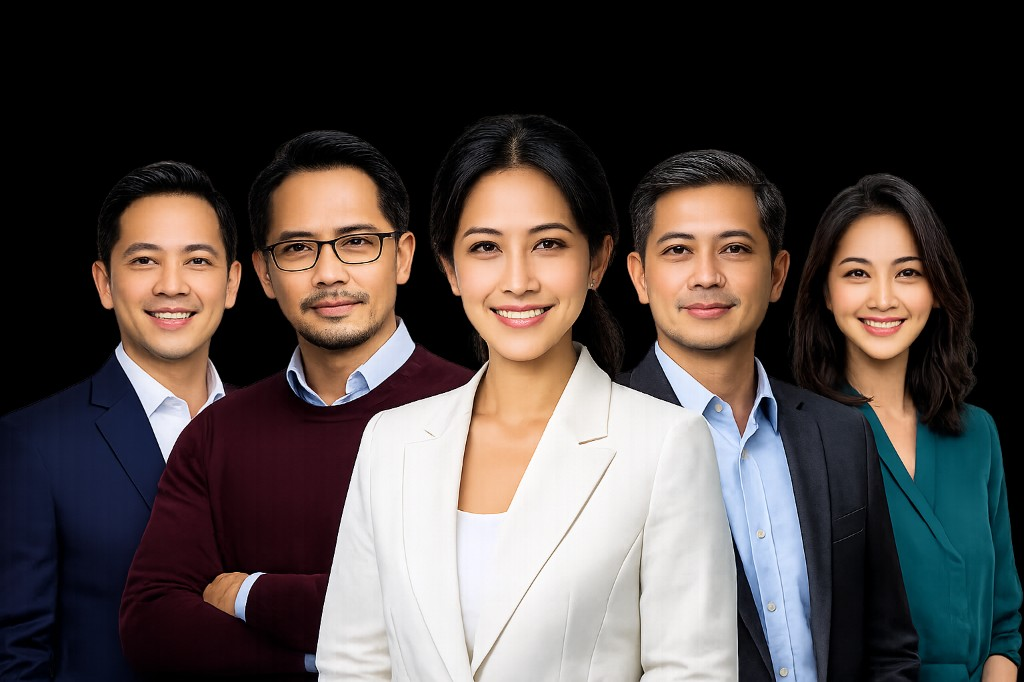
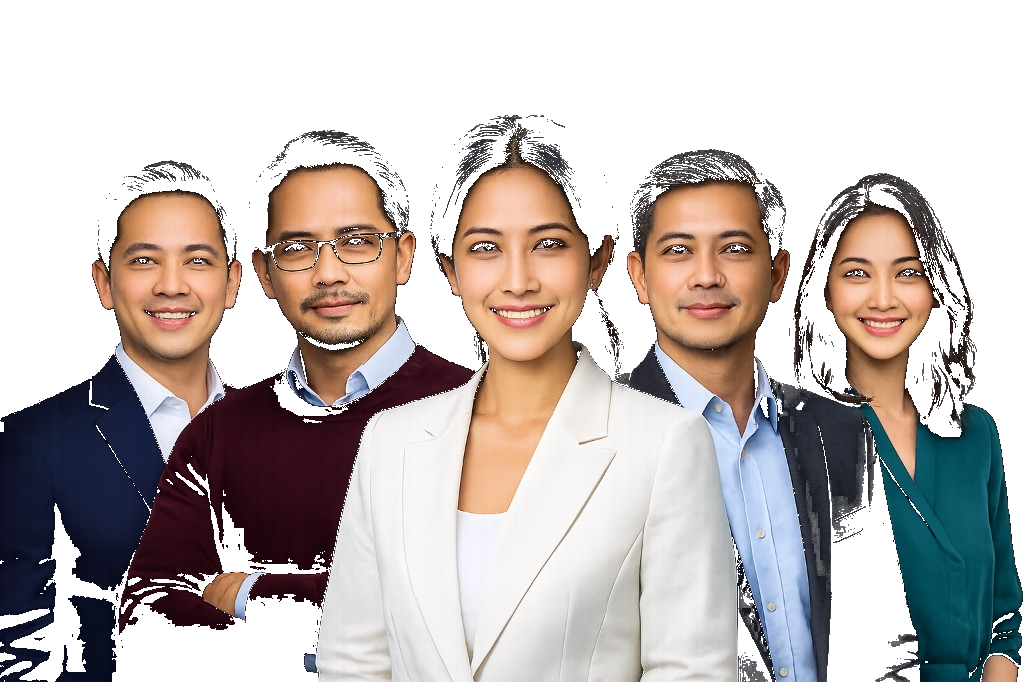
Merge trust and mentor sections into one unified block.
Combine verification messaging, group photo, aggregate stats, and a single catalog CTA so the homepage no longer repeats the same trust signals twice.

diff --git a/src/components/mentor-landing-section.tsx b/src/components/mentor-landing-section.tsx
@@ -1,33 +1,73 @@
+"use client";
+
 import Link from "next/link";
 import Image from "next/image";
-import { ArrowRight, ShieldCheck } from "lucide-react";
+import { ArrowRight, Check, ShieldCheck, Star, Users2 } from "lucide-react";
 
-import type { Mentor } from "@/lib/types";
-import { cn } from "@/lib/utils";
+import { Reveal, Stagger, StaggerItem } from "@/components/motion/reveal";
+import { Button } from "@/components/ui/button";
+import type { Course, Mentor } from "@/lib/types";
+import { cn, formatRating, hasRating } from "@/lib/utils";
 
 interface MentorLandingSectionProps {
   mentors: Mentor[];
+  courses: Course[];
   className?: string;
 }
 
-function formatCompactCount(value: number): string {
-  if (value >= 1_000_000) {
-    return `${(value / 1_000_000).toFixed(1).replace(/\.0$/, "").replace(".", ",")}jt`;
-  }
-  if (value >= 1_000) {
-    return `${(value / 1_000).toFixed(1).replace(/\.0$/, "").replace(".", ",")}rb`;
-  }
-  return String(value);
+const verificationSteps = [
+  "Kredensial dan lisensi diperiksa",
+  "Kurikulum ditinjau tim",
+  "Kepatuhan dicek sebelum tayang",
+] as const;
+
+function average(values: number[]): number {
+  if (values.length === 0) return 0;
+  return values.reduce((sum, v) => sum + v, 0) / values.length;
 }
 
-export function MentorLandingSection({ mentors, className }: MentorLandingSectionProps) {
+export function MentorLandingSection({ mentors, courses, className }: MentorLandingSectionProps) {
   if (mentors.length === 0) return null;
 
-  const studentsTotal = mentors.reduce((sum, m) => sum + m.studentsCount, 0);
+  const totalStudents = courses.reduce((sum, c) => sum + c.studentsCount, 0);
   const ojkCount = mentors.filter((m) => m.licenseLabel?.includes("OJK")).length;
+  const ratedCourses = courses.filter((c) => hasRating(c.rating));
+  const avgRating = average(ratedCourses.map((c) => c.rating));
+
+  const stats = [
+    {
+      icon: Users2,
+      value: mentors.length.toLocaleString("id-ID"),
+      label: "Mentor di katalog",
+    },
+    {
+      icon: Users2,
+      value: totalStudents.toLocaleString("id-ID"),
+      label: "Siswa terdaftar",
+    },
+    {
+      icon: ShieldCheck,
+      value: ojkCount.toLocaleString("id-ID"),
+      label: "Terdaftar OJK",
+    },
+    {
+      icon: Star,
+      value: avgRating > 0 ? formatRating(avgRating) : "—",
+      label: "Rating rata-rata kelas",
+    },
+  ];
 
   return (
     <div className={cn("mentor-landing-section", className)}>
+      <div className="mentor-landing-header">
+        <p className="mentor-landing-eyebrow">Mentor Terverifikasi</p>
+        <h2 className="section-title sm:text-3xl">Mentor dicek dulu, baru kelas tayang</h2>
+        <p className="mentor-landing-copy">
+          Kami verifikasi kredensial, kurikulum, dan kepatuhan — lisensi WPPE-OJK untuk saham,
+          sertifikasi Bappebti untuk kripto — sebelum mentor tampil di katalog.
+        </p>
+      </div>
+
       <div className="mentor-landing-hero" aria-label="Mentor terverifikasi">
         <Image
           src="/mentors/mentor-landing-group.png"
@@ -38,25 +78,50 @@ export function MentorLandingSection({ mentors, className }: MentorLandingSectio
           className="mentor-landing-photo"
         />
         <div className="mentor-landing-fade" aria-hidden />
-
-        <div className="mentor-landing-header">
-          <p className="mentor-landing-eyebrow">Mentor Terverifikasi</p>
-          <h2 className="mentor-landing-title">Sosok di balik kelas yang kamu ikuti</h2>
-          <p className="mentor-landing-copy">
-            Setiap mentor melewati verifikasi kredensial — lisensi WPPE-OJK untuk saham,
-            sertifikasi Bappebti untuk kripto — sebelum kelasnya tayang di katalog.
-          </p>
-          <p className="mentor-landing-stats">
-            <ShieldCheck className="size-3.5 text-accent" strokeWidth={2} aria-hidden />
-            {mentors.length} mentor · {formatCompactCount(studentsTotal)} murid ·{" "}
-            {ojkCount} terdaftar OJK
-          </p>
-          <Link href="/katalog?view=instruktur" className="mentor-landing-cta">
-            Buka katalog mentor
-            <ArrowRight className="size-4" />
-          </Link>
-        </div>
       </div>
+
+      <Stagger className="mt-6 grid grid-cols-2 gap-3 sm:mt-8 sm:gap-4 md:grid-cols-4">
+        {stats.map((stat) => {
+          const Icon = stat.icon;
+          return (
+            <StaggerItem key={stat.label}>
+              <div className="narrative-stat-tile surface-card h-full rounded-xl p-4 sm:p-5">
+                <Icon className="size-4 text-accent" aria-hidden />
+                <p className="narrative-stat-value stat-value mt-2 text-xl sm:text-3xl">{stat.value}</p>
+                <p className="stat-label">{stat.label}</p>
+              </div>
+            </StaggerItem>
+          );
+        })}
+      </Stagger>
+
+      <Reveal className="mt-6 sm:mt-8">
+        <div className="surface-card rounded-xl bg-card/60 p-4 sm:p-6">
+          <Stagger className="grid gap-2.5 sm:grid-cols-3" delay={0.05}>
+            {verificationSteps.map((step) => (
+              <StaggerItem key={step}>
+                <div className="flex h-full items-center gap-3 rounded-lg border border-border/50 bg-surface/30 px-3 py-2.5">
+                  <span className="flex size-5 shrink-0 items-center justify-center rounded-full bg-accent/15">
+                    <Check className="size-3 text-accent" strokeWidth={2.5} />
+                  </span>
+                  <span className="text-sm text-muted-foreground">{step}</span>
+                </div>
+              </StaggerItem>
+            ))}
+          </Stagger>
+        </div>
+      </Reveal>
+
+      <Reveal className="mt-6 flex justify-center sm:mt-8">
+        <Button
+          size="lg"
+          className="btn-primary h-12 rounded-full px-8"
+          render={<Link href="/katalog?view=instruktur" />}
+        >
+          Buka katalog mentor
+          <ArrowRight className="size-4" />
+        </Button>
+      </Reveal>
     </div>
   );
 }

diff --git a/src/app/globals.css b/src/app/globals.css
@@ -525,53 +525,18 @@
     background-color: var(--accent);
   }
 
-  /* Mentor landing — group photo hero with bottom fade into page background. */
+  /* Mentor landing — copy stacked above group photo with bottom fade into page background. */
   .mentor-landing-section {
-    position: relative;
-  }
-
-  .mentor-landing-hero {
-    position: relative;
-    isolation: isolate;
-    overflow: hidden;
-    width: 100%;
-    aspect-ratio: 16 / 10;
-    min-height: clamp(18rem, 52vw, 28rem);
-    border-radius: var(--radius-2xl);
-    background: #050505;
-  }
-
-  .mentor-landing-photo {
-    object-fit: cover;
-    object-position: center 18%;
-  }
-
-  .mentor-landing-fade {
-    pointer-events: none;
-    position: absolute;
-    inset: 0;
-    z-index: 1;
-    background: linear-gradient(
-      to bottom,
-      rgba(5, 5, 5, 0.08) 0%,
-      rgba(5, 5, 5, 0.02) 28%,
-      transparent 42%,
-      color-mix(in oklch, var(--background) 18%, transparent) 62%,
-      color-mix(in oklch, var(--background) 72%, transparent) 82%,
-      var(--background) 100%
-    );
+    display: flex;
+    flex-direction: column;
+    gap: clamp(1.25rem, 3vw, 2rem);
   }
 
   .mentor-landing-header {
-    position: absolute;
-    inset-inline: 0;
-    top: 0;
-    z-index: 2;
     display: flex;
     max-width: 42rem;
     flex-direction: column;
     align-items: center;
-    padding: clamp(1.75rem, 5vw, 3rem) clamp(1.25rem, 4vw, 2rem) 0;
     margin-inline: auto;
     text-align: center;
   }
@@ -580,54 +545,54 @@
     @apply mb-2 text-xs font-semibold uppercase tracking-[0.14em] text-accent;
   }
 
-  .mentor-landing-title {
-    font-family: var(--font-heading);
-    font-size: clamp(1.625rem, 4vw, 2rem);
-    font-weight: 600;
-    line-height: 1.15;
-    letter-spacing: -0.02em;
-    color: #f5f5f5;
-  }
-
   .mentor-landing-copy {
-    @apply mt-2 max-w-lg text-sm leading-relaxed sm:text-base;
-    color: rgba(245, 245, 245, 0.78);
+    @apply mt-2 max-w-lg text-sm leading-relaxed text-muted-foreground sm:text-base;
   }
 
-  .mentor-landing-stats {
-    @apply mt-3 inline-flex items-center gap-1.5 text-xs font-medium;
-    color: rgba(245, 245, 245, 0.72);
+  .mentor-landing-hero {
+    position: relative;
+    isolation: isolate;
+    overflow: hidden;
+    width: 100%;
+    aspect-ratio: 16 / 9;
+    min-height: clamp(14rem, 42vw, 24rem);
+    border-radius: var(--radius-2xl);
+    background: var(--background);
   }
 
-  .mentor-landing-cta {
-    @apply mt-4 inline-flex items-center gap-1 text-sm font-medium transition-colors;
-    color: #f5f5f5;
+  .mentor-landing-photo {
+    object-fit: contain;
+    object-position: center bottom;
   }
 
-  .mentor-landing-cta:hover {
-    color: var(--accent);
-  }
-
-  .mentor-landing-cta:focus-visible {
-    @apply rounded-sm outline-2 outline-offset-4 outline-ring;
+  .mentor-landing-fade {
+    pointer-events: none;
+    position: absolute;
+    inset-inline: 0;
+    bottom: 0;
+    height: 38%;
+    z-index: 1;
+    background: linear-gradient(
+      to bottom,
+      transparent 0%,
+      color-mix(in oklch, var(--background) 35%, transparent) 45%,
+      color-mix(in oklch, var(--background) 85%, transparent) 78%,
+      var(--background) 100%
+    );
   }
 
   @media (min-width: 640px) {
     .mentor-landing-hero {
       aspect-ratio: 21 / 9;
-    }
-
-    .mentor-landing-photo {
-      object-position: center 22%;
+      min-height: clamp(16rem, 36vw, 26rem);
     }
   }
 
   @media (min-width: 1024px) {
     .mentor-landing-header {
       align-items: flex-start;
-      text-align: left;
       margin-inline: 0;
-      padding-inline: clamp(2rem, 4vw, 3rem);
+      text-align: left;
     }
   }
 

diff --git a/src/components/home-page-content.tsx b/src/components/home-page-content.tsx
@@ -8,7 +8,6 @@ import { CourseCarousel } from "@/components/course-carousel";
 import { CurriculumPreviewSection } from "@/components/home/curriculum-preview-section";
 import { ClosingCtaSection } from "@/components/home/closing-cta-section";
 import { PricingModelComparison } from "@/components/home/pricing-model-comparison";
-import { TrustVerificationSection } from "@/components/home/trust-verification-section";
 import { HeroLivingBackground } from "@/components/hero-living-bg";
 import { HeroTyping } from "@/components/motion/hero-typing";
 import { MentorLandingSection } from "@/components/mentor-landing-section";
@@ -154,9 +153,6 @@ export function HomePageContent({
           </div>
         </section>
 
-        {/* Trust & Verification — real aggregate stats from the catalog */}
-        <TrustVerificationSection courses={courses} mentors={mentors} />
-
         {/* How it works — absorbs pricing transparency (pay-per-class, no subscription) */}
         <section className="section-muted section-tight border-b border-border/60">
           <div className="container-page">
@@ -185,10 +181,10 @@ export function HomePageContent({
           </div>
         </section>
 
-        {/* Mentor landing — group photo hero */}
+        {/* Mentor terverifikasi — trust, stats, group photo */}
         <section className="section-loose border-b border-border/60">
           <div className="container-page">
-            <MentorLandingSection mentors={mentors} />
+            <MentorLandingSection mentors={mentors} courses={courses} />
           </div>
         </section>
 